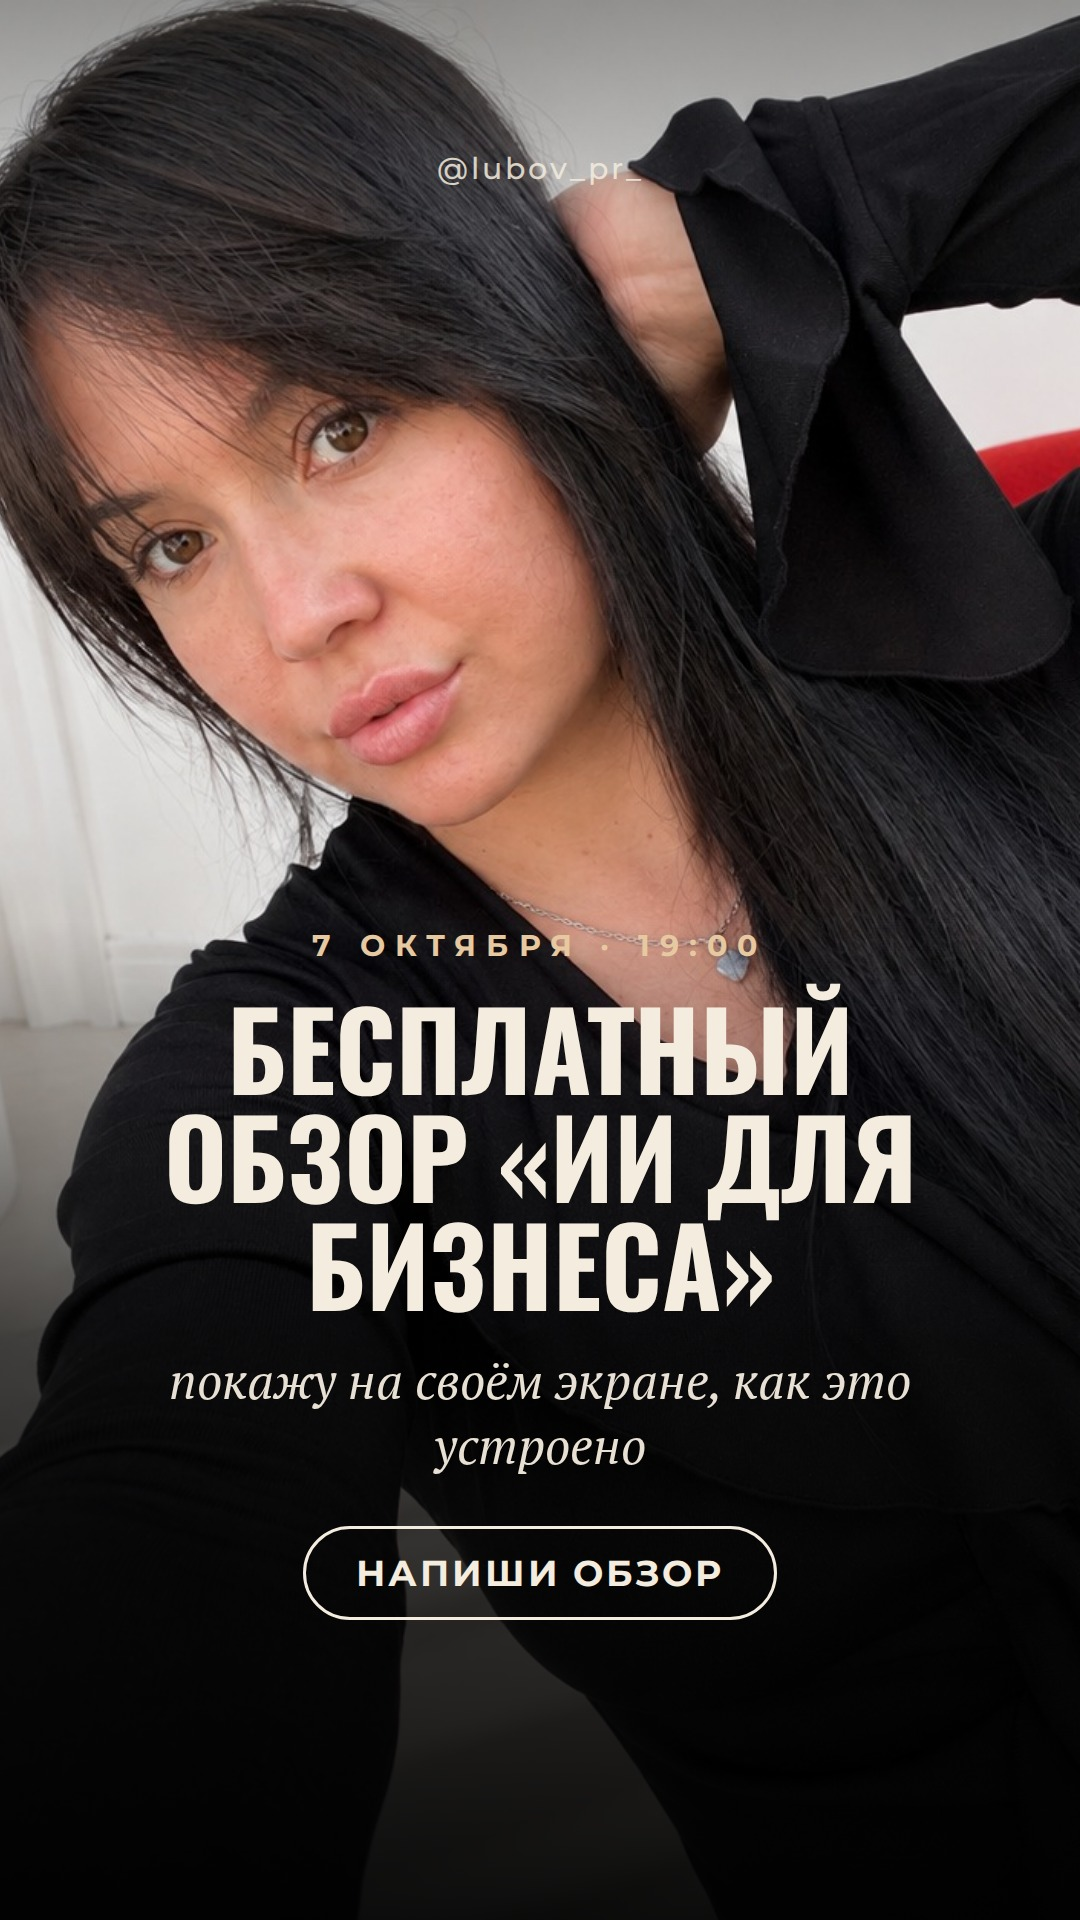
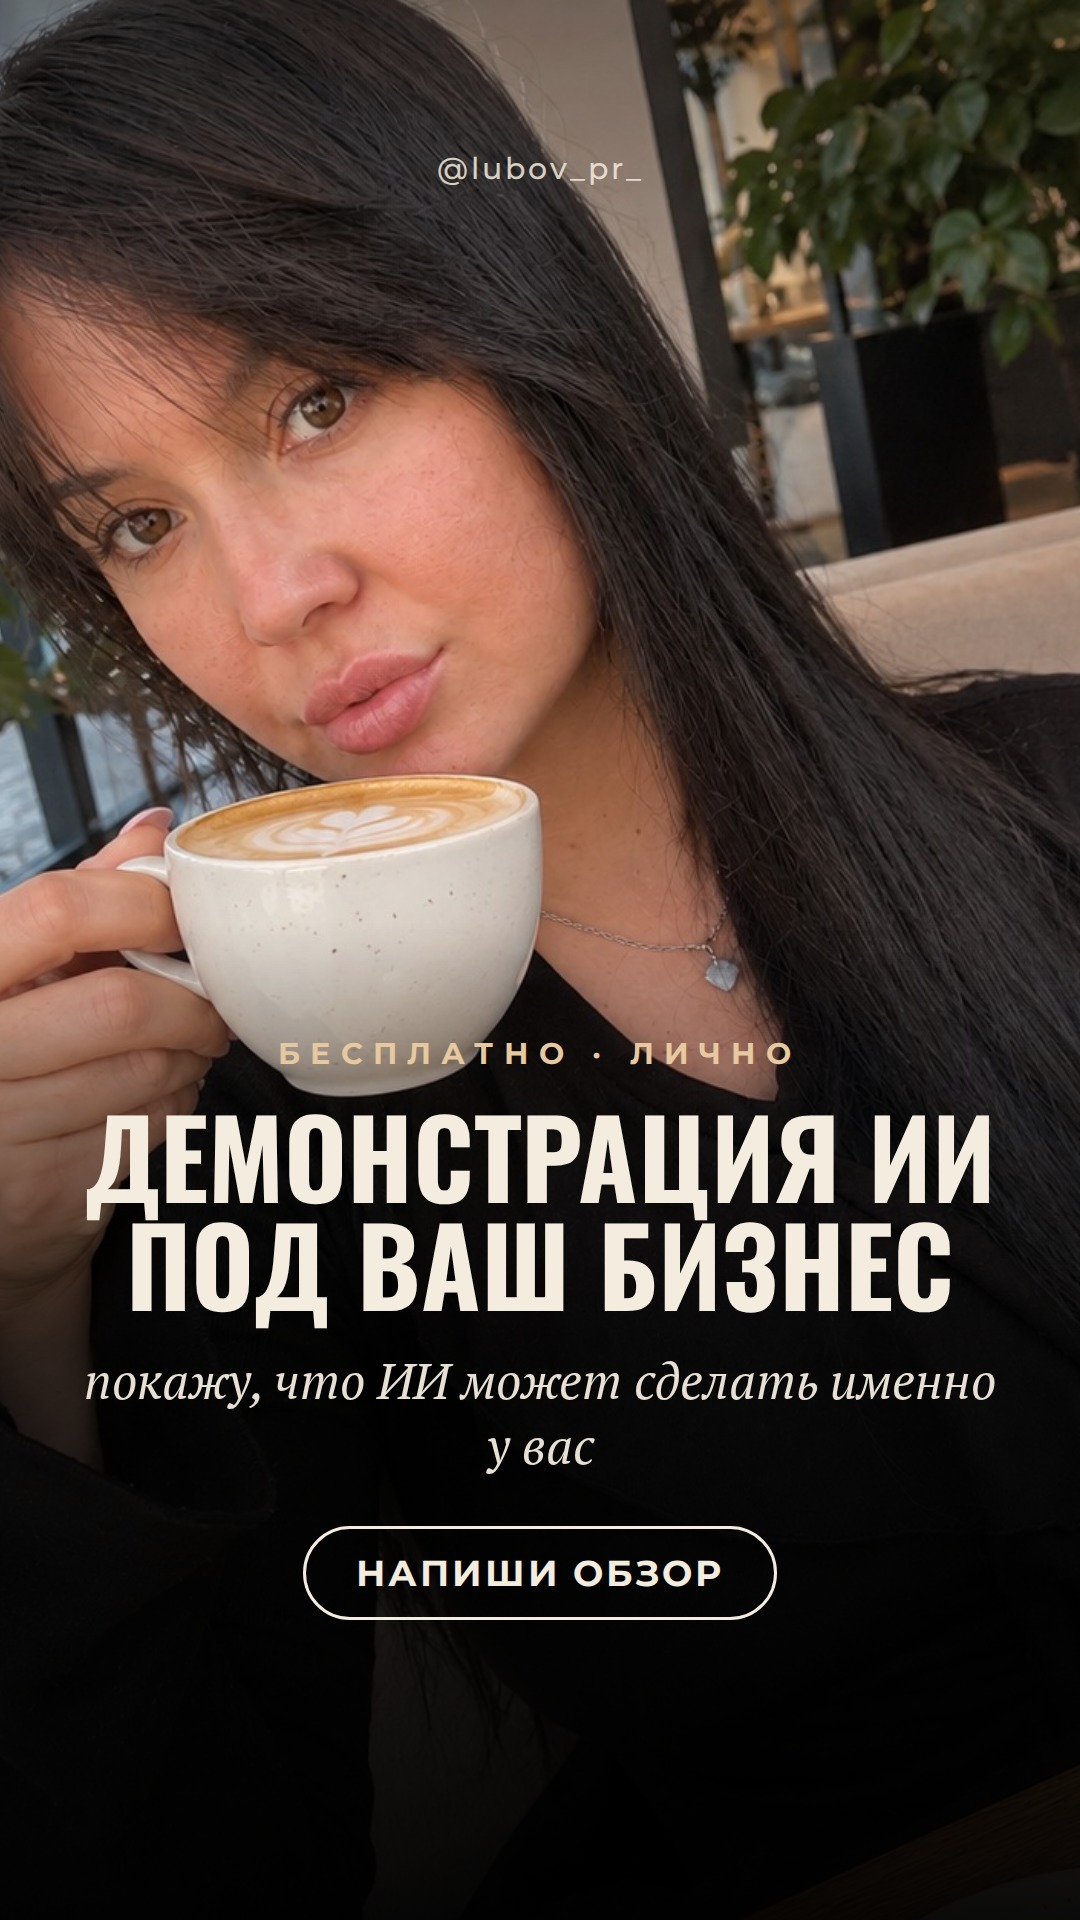
Исправление: вместо обзора 7.10 — личная демонстрация ИИ; замена сторис 3–4, карусель v2 (черновик)
Claude-Session: https://claude.ai/code/session_019EGb2JtTjqiNVK3WnH1BTw

diff --git a/content/carousels_2026-09-29.py b/content/carousels_2026-09-29.py
@@ -1,5 +1,5 @@
 # 29.09 · день 1 · разогрев
-CAROUSELS = [{'date': '2026-09-29', 'slug': 'god-s-ii', 'cta': 'ОБЗОР', 'photo': ('lubov_01.jpg', '20%'),
+CAROUSELS = [{'date': '2026-09-29', 'slug': 'god-s-ii-v2', 'cta': 'ОБЗОР', 'photo': ('lubov_01.jpg', '20%'),
   'slides': [
     ('15 лет в маркетинге', 'Что ИИ изменил за год', 'больше, чем все инструменты за 10 лет до этого'),
     ('с чего начинала', 'Руки не успевали', 'Свой бизнес с 2011 года, потом студия YMISHE и маркетинг чужих компаний. Везде одно и то же: задач больше, чем часов в сутках.'),
@@ -7,5 +7,5 @@ CAROUSELS = [{'date': '2026-09-29', 'slug': 'god-s-ii', 'cta': 'ОБЗОР', 'ph
     ('сейчас', 'Одно приложение', 'Claude знает мой бизнес, моих клиентов и мой голос. Не пять нейросетей по очереди, а одна, которую я один раз научила.'),
     ('как', 'Три шага по порядку', 'Оцифровать: рассказать ИИ про бизнес. Автоматизировать: отдать рутину. Улучшать: раз в неделю дописывать правила.'),
     ('вчера', '12 рилсов вышли сами', 'С 19:30 до часу ночи, каждые полчаса. Я их не выкладывала руками — робот всё сделал сам. Контент больше не съедает мои вечера.'),
-    ('7 октября', 'Покажу на экране', 'Бесплатный обзор «ИИ для бизнеса»: как это устроено у меня и что можно сделать у вас. Напиши ОБЗОР в директ — пришлю ссылку.'),
+    ('лично для вас', 'Покажу на вашем бизнесе', 'Бесплатная демонстрация: что ИИ может сделать именно у вас. Потом решим, как внедрять — индивидуально или в группе. Напиши ОБЗОР в директ.'),
   ]}]

diff --git a/content/stories_2026-09-29.py b/content/stories_2026-09-29.py
@@ -2,6 +2,6 @@
 DAYS = [{'date': '2026-09-29', 'stories': [
   {'photo': ('lubov_01.jpg', '28% center'), 'text': ('пока вы спали', '12 рилсов вышли сами', 'вчера с 19:30 до часу ночи. Я их не выкладывала руками')},
   {'photo': ('lubov_01.jpg', '28% center'), 'text': ('вопрос', 'Сколько часов в неделю у вас уходит на контент?', 'ответь цифрой в директ — посчитаю, сколько можно отдать ИИ')},
-  {'photo': ('lubov_01.jpg', '28% center'), 'text': ('7 октября · 19:00', 'Бесплатный обзор «ИИ для бизнеса»', 'покажу на своём экране, как это устроено'), 'pill': True},
-  {'photo': ('lubov_01.jpg', '28% center'), 'text': ('как попасть', 'Напиши ОБЗОР в директ', 'пришлю ссылку и напомню накануне')},
+  {'photo': ('lubov_02_cafe.jpg', '30% center'), 'text': ('бесплатно · лично', 'Демонстрация ИИ под ваш бизнес', 'покажу, что ИИ может сделать именно у вас'), 'pill': True},
+  {'photo': ('lubov_02_cafe.jpg', '30% center'), 'text': ('как попасть', 'Напиши ОБЗОР в директ', 'договоримся о времени — потом решим, внедряем индивидуально или в группе')},
 ], 'pill': 'НАПИШИ ОБЗОР'}]
